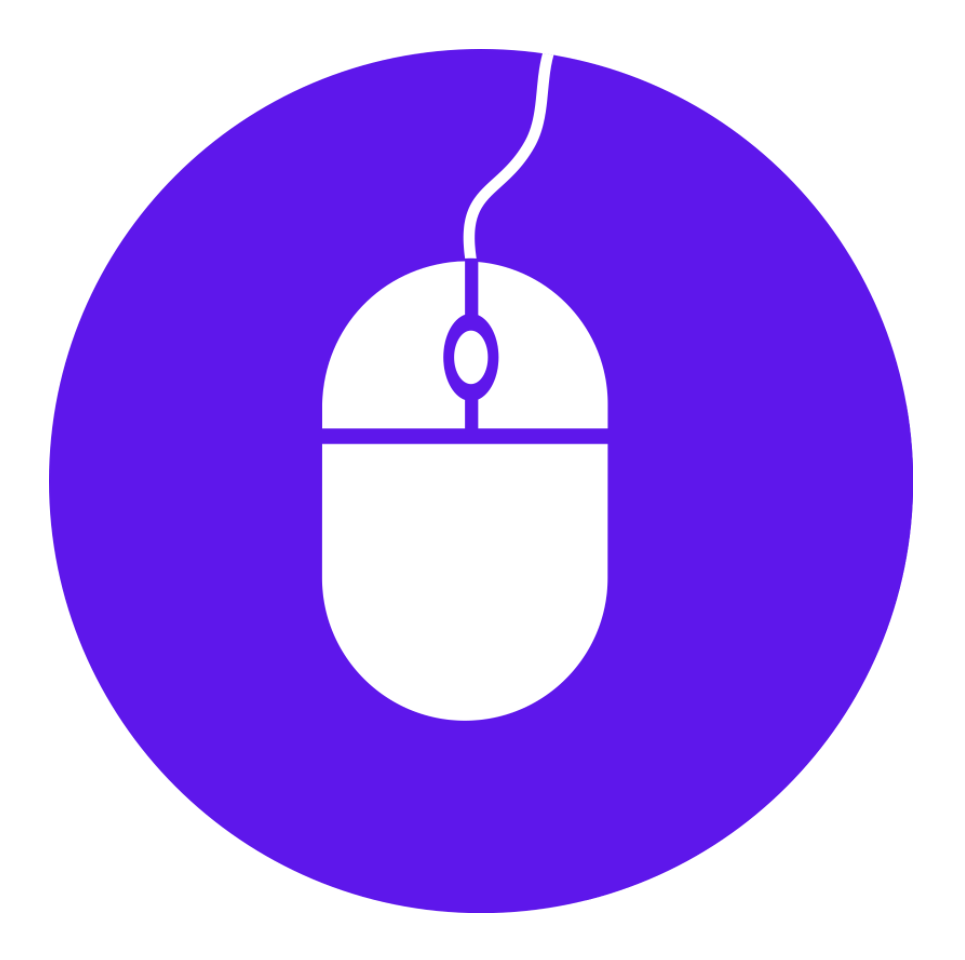
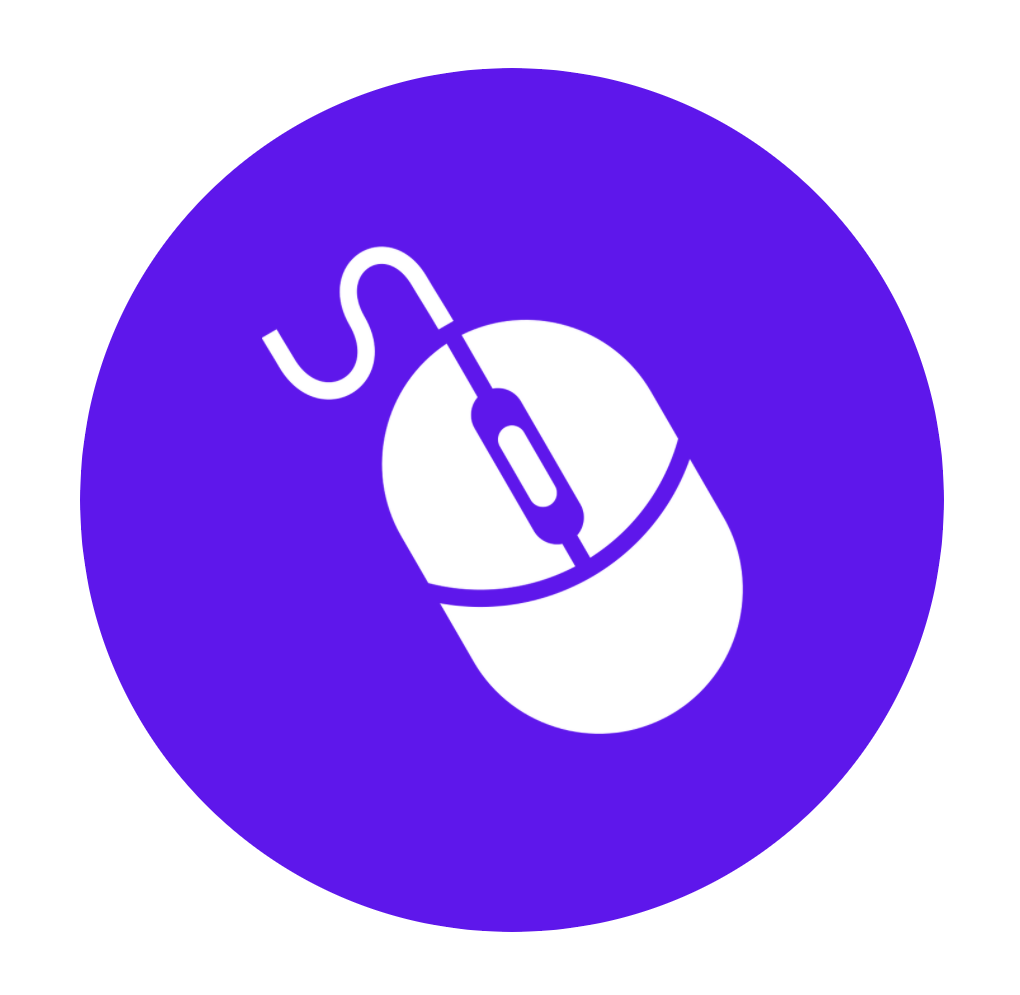
Change mouse graphic and credit both instructions page graphics in README

Changed region(s): [[0.0311, 0.0312, 0.9637, 0.9688]]

diff --git a/README.md b/README.md
@@ -441,7 +441,9 @@ Click [Here](https://help.github.com/en/github/creating-cloning-and-archiving-re
 
 ### ***Media***
 
-- The [piano icon](https://www.canva.com/media/MAEouvjy1U8) on the Instructions page was taken from graphic designer [Avidesign](https://www.canva.com/p/avidesign/) via [Canva](https://www.canva.com/).
+- The [piano graphic](https://www.canva.com/media/MAEYJcyVjO8) on the Instructions page was taken from graphic designer [vectortradition](https://www.canva.com/p/vectortradition/) via [Canva](https://www.canva.com/).
+
+- The [mouse graphic](https://www.canva.com/media/MADHSKVmqUU) on the Instructions page was taken from graphic designer [BellafishPh](https://www.canva.cn/p/hnh-nh-ca-bellafish-ph/) via [Canva](https://www.canva.com/).
 
 - The sheet music and corresponding audio on the Sheet Music page was taken from [Musescore](https://musescore.com/) with the individual songs credited as follows:
   - [The Entertainer - Scott Joplin](https://musescore.com/user/167019/scores/162108) by [rui.c.sousa.3](https://musescore.com/user/167019)
